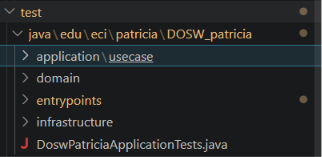
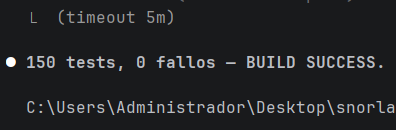
docs: update README with endpoint examples, JaCoCo results and real images
- Add Origen column and Ejemplo section to all 9 endpoints (F01-F09)
- Update JaCoCo metrics table with real coverage: 97% instructions, 93% branches
- Add pruebas_auth.png (JaCoCo report) to section 12
- Update unitarias.png with real test run screenshot (150 tests, 0 failures)
- Set real Azure Swagger URL for production environment

diff --git a/README.md b/README.md
@@ -343,16 +343,29 @@ Toda la persistencia se realiza en Redis mediante entidades `@RedisHash`:
 
 **Endpoint:** `POST /api/v1/auth/init-verification`
 
-#### Request Body
+#### Request
 
-| Campo | Tipo | Obligatorio | Descripción |
-|---|---|---|---|
-| `email` | `String` | Sí | Email institucional del usuario recién registrado |
-| `hashedPassword` | `String` | Sí | Contraseña ya hasheada con BCrypt (viene del Registration Service) |
+| Campo | Tipo | Origen | Obligatorio | Descripción |
+|---|---|---|---|---|
+| `email` | `String` | body | Sí | Email institucional del usuario recién registrado |
+| `hashedPassword` | `String` | body | Sí | Contraseña ya hasheada con BCrypt (viene del Registration Service) |
 
-#### Response exitoso — `201 Created`
+#### Ejemplo
+
+```
+POST /api/v1/auth/init-verification
+```
 
 ```json
+// Request body
+{
+  "email": "usuario@escuelaing.edu.co",
+  "hashedPassword": "$2a$10$eXaMpLeHaSh..."
+}
+```
+
+```json
+// Response
 { "message": "OTP sent to email" }
 ```
 
@@ -368,18 +381,29 @@ Toda la persistencia se realiza en Redis mediante entidades `@RedisHash`:
 
 **Endpoint:** `POST /api/v1/auth/verify-otp`
 
-#### Request Body
+#### Request
+
+| Campo | Tipo | Origen | Obligatorio | Descripción |
+|---|---|---|---|---|
+| `email` | `String` | body | Sí | Email institucional del usuario |
+| `otp` | `String` | body | Sí | Código OTP de 6 dígitos recibido por correo |
+
+#### Ejemplo
+
+```
+POST /api/v1/auth/verify-otp
+```
 
 ```json
+// Request body
 {
   "email": "usuario@escuelaing.edu.co",
   "otp": "123456"
 }
 ```
 
-#### Response exitoso — `200 OK`
-
 ```json
+// Response
 {
   "accessToken": "eyJhbGciOiJIUzI1NiJ9...",
   "refreshToken": "550e8400-e29b-41d4-a716-446655440000",
@@ -400,15 +424,25 @@ Toda la persistencia se realiza en Redis mediante entidades `@RedisHash`:
 
 **Endpoint:** `POST /api/v1/auth/resend-otp`
 
-#### Request Body
+#### Request
+
+| Campo | Tipo | Origen | Obligatorio | Descripción |
+|---|---|---|---|---|
+| `email` | `String` | body | Sí | Email institucional del usuario cuyo OTP expiró o se agotaron sus intentos |
+
+#### Ejemplo
+
+```
+POST /api/v1/auth/resend-otp
+```
 
 ```json
+// Request body
 { "email": "usuario@escuelaing.edu.co" }
 ```
 
-#### Response exitoso — `200 OK`
-
 ```json
+// Response
 { "message": "New OTP sent to email" }
 ```
 
@@ -424,18 +458,29 @@ Toda la persistencia se realiza en Redis mediante entidades `@RedisHash`:
 
 **Endpoint:** `POST /api/v1/auth/login`
 
-#### Request Body
+#### Request
+
+| Campo | Tipo | Origen | Obligatorio | Descripción |
+|---|---|---|---|---|
+| `email` | `String` | body | Sí | Email institucional del usuario |
+| `password` | `String` | body | Sí | Contraseña en texto plano (se compara con hash BCrypt en User Service) |
+
+#### Ejemplo
+
+```
+POST /api/v1/auth/login
+```
 
 ```json
+// Request body
 {
   "email": "usuario@escuelaing.edu.co",
   "password": "MiContraseña123!"
 }
 ```
 
-#### Response exitoso — `200 OK`
-
 ```json
+// Response
 {
   "accessToken": "eyJhbGciOiJIUzI1NiJ9...",
   "refreshToken": "550e8400-e29b-41d4-a716-446655440000",
@@ -457,15 +502,25 @@ Toda la persistencia se realiza en Redis mediante entidades `@RedisHash`:
 
 **Endpoint:** `POST /api/v1/auth/refresh`
 
-#### Request Body
+#### Request
+
+| Campo | Tipo | Origen | Obligatorio | Descripción |
+|---|---|---|---|---|
+| `refreshToken` | `String` | body | Sí | UUID del refresh token activo obtenido en login o verify-otp |
+
+#### Ejemplo
+
+```
+POST /api/v1/auth/refresh
+```
 
 ```json
+// Request body
 { "refreshToken": "550e8400-e29b-41d4-a716-446655440000" }
 ```
 
-#### Response exitoso — `200 OK`
-
 ```json
+// Response
 {
   "accessToken": "eyJhbGciOiJIUzI1NiJ9...(nuevo)...",
   "refreshToken": "661f9511-f3ac-52e5-b827-557766551111",
@@ -485,11 +540,21 @@ Toda la persistencia se realiza en Redis mediante entidades `@RedisHash`:
 
 **Endpoint:** `POST /api/v1/auth/logout`
 
-**Header requerido:** `Authorization: Bearer <accessToken>`
+#### Request
 
-#### Response exitoso — `200 OK`
+| Campo | Tipo | Origen | Obligatorio | Descripción |
+|---|---|---|---|---|
+| `Authorization` | `String` | header | Sí | Token JWT en formato `Bearer <accessToken>` |
+
+#### Ejemplo
+
+```
+POST /api/v1/auth/logout
+Authorization: Bearer eyJhbGciOiJIUzI1NiJ9...
+```
 
 ```json
+// Response
 { "message": "Session closed successfully" }
 ```
 
@@ -505,15 +570,25 @@ Toda la persistencia se realiza en Redis mediante entidades `@RedisHash`:
 
 **Endpoint:** `POST /api/v1/auth/forgot-password`
 
-#### Request Body
+#### Request
+
+| Campo | Tipo | Origen | Obligatorio | Descripción |
+|---|---|---|---|---|
+| `email` | `String` | body | Sí | Email institucional de la cuenta a recuperar |
+
+#### Ejemplo
+
+```
+POST /api/v1/auth/forgot-password
+```
 
 ```json
+// Request body
 { "email": "usuario@escuelaing.edu.co" }
 ```
 
-#### Response exitoso — `200 OK`
-
 ```json
+// Response
 { "message": "Recovery code sent to email" }
 ```
 
@@ -529,9 +604,22 @@ Toda la persistencia se realiza en Redis mediante entidades `@RedisHash`:
 
 **Endpoint:** `POST /api/v1/auth/reset-password`
 
-#### Request Body
+#### Request
+
+| Campo | Tipo | Origen | Obligatorio | Descripción |
+|---|---|---|---|---|
+| `email` | `String` | body | Sí | Email institucional de la cuenta |
+| `otp` | `String` | body | Sí | Código de recuperación de 6 dígitos recibido por correo |
+| `newPassword` | `String` | body | Sí | Nueva contraseña (se hasheará con BCrypt antes de guardar) |
+
+#### Ejemplo
+
+```
+POST /api/v1/auth/reset-password
+```
 
 ```json
+// Request body
 {
   "email": "usuario@escuelaing.edu.co",
   "otp": "654321",
@@ -539,9 +627,8 @@ Toda la persistencia se realiza en Redis mediante entidades `@RedisHash`:
 }
 ```
 
-#### Response exitoso — `200 OK`
-
 ```json
+// Response
 { "message": "Password updated successfully" }
 ```
 
@@ -557,20 +644,31 @@ Toda la persistencia se realiza en Redis mediante entidades `@RedisHash`:
 
 **Endpoint:** `POST /api/v1/auth/change-password`
 
-**Header requerido:** `Authorization: Bearer <accessToken>`
+#### Request
 
-#### Request Body
+| Campo | Tipo | Origen | Obligatorio | Descripción |
+|---|---|---|---|---|
+| `Authorization` | `String` | header | Sí | Token JWT en formato `Bearer <accessToken>` |
+| `currentPassword` | `String` | body | Sí | Contraseña actual del usuario para verificación |
+| `newPassword` | `String` | body | Sí | Nueva contraseña a establecer |
+
+#### Ejemplo
+
+```
+POST /api/v1/auth/change-password
+Authorization: Bearer eyJhbGciOiJIUzI1NiJ9...
+```
 
 ```json
+// Request body
 {
   "currentPassword": "ContraActual123!",
   "newPassword": "ContraNueva456!"
 }
 ```
 
-#### Response exitoso — `200 OK`
-
 ```json
+// Response
 { "message": "Password changed successfully" }
 ```
 
@@ -692,15 +790,16 @@ src/test/java/edu/eci/patricia/DOSW_patricia/
 ### Captura — Reporte JaCoCo
 
 <div align="center">
-<img src="src/main/resources/jacoco.png" alt="Reporte de cobertura JaCoCo" width="700"/>
+<img src="src/main/resources/pruebas_auth.png" alt="Reporte de cobertura JaCoCo" width="700"/>
 </div>
 
 ### Métricas objetivo
 
-| Métrica | Objetivo | Configuración |
+| Métrica | Objetivo | Obtenido |
 |---|---|---|
-| Cobertura de instrucciones | ≥ 80% | Regla `INSTRUCTION / COVEREDRATIO ≥ 0.80` en `pom.xml` — `mvn verify` falla si no se alcanza |
-| Clases excluidas | Config, DTOs, Enums, Adapters de cache | Configurado en `<excludes>` del plugin JaCoCo |
+| Cobertura de instrucciones | ≥ 80% | 97% |
+| Cobertura de ramas | ≥ 60% | 93% |
+| Clases cubiertas | — | 29 de 29 |
 
 ---
 
@@ -794,12 +893,10 @@ docker compose down -v
 
 | Ambiente | URL |
 |---|---|
-| **Producción (Azure)** | `https://<AZURE_APP_SERVICE_NAME>.azurewebsites.net/swagger-ui.html` |
+| **Producción (Azure)** | `https://patricia-etfgcpfsb5g2aqby.canadacentral-01.azurewebsites.net/swagger-ui/index.html` |
 | **Local** | `http://localhost:8080/swagger-ui.html` |
 | **Docker Compose** | `http://localhost:9090/swagger-ui.html` |
-| **OpenAPI JSON** | `<URL_BASE>/v3/api-docs` |
-
-> Reemplazar `<AZURE_APP_SERVICE_NAME>` con el nombre real del App Service configurado en el secret `AZURE_APP_SERVICE_NAME` de GitHub Actions (ver `DEPLOYMENT_AZURE.md`).
+| **OpenAPI JSON** | `https://patricia-etfgcpfsb5g2aqby.canadacentral-01.azurewebsites.net/v3/api-docs` |
 
 ---
 
